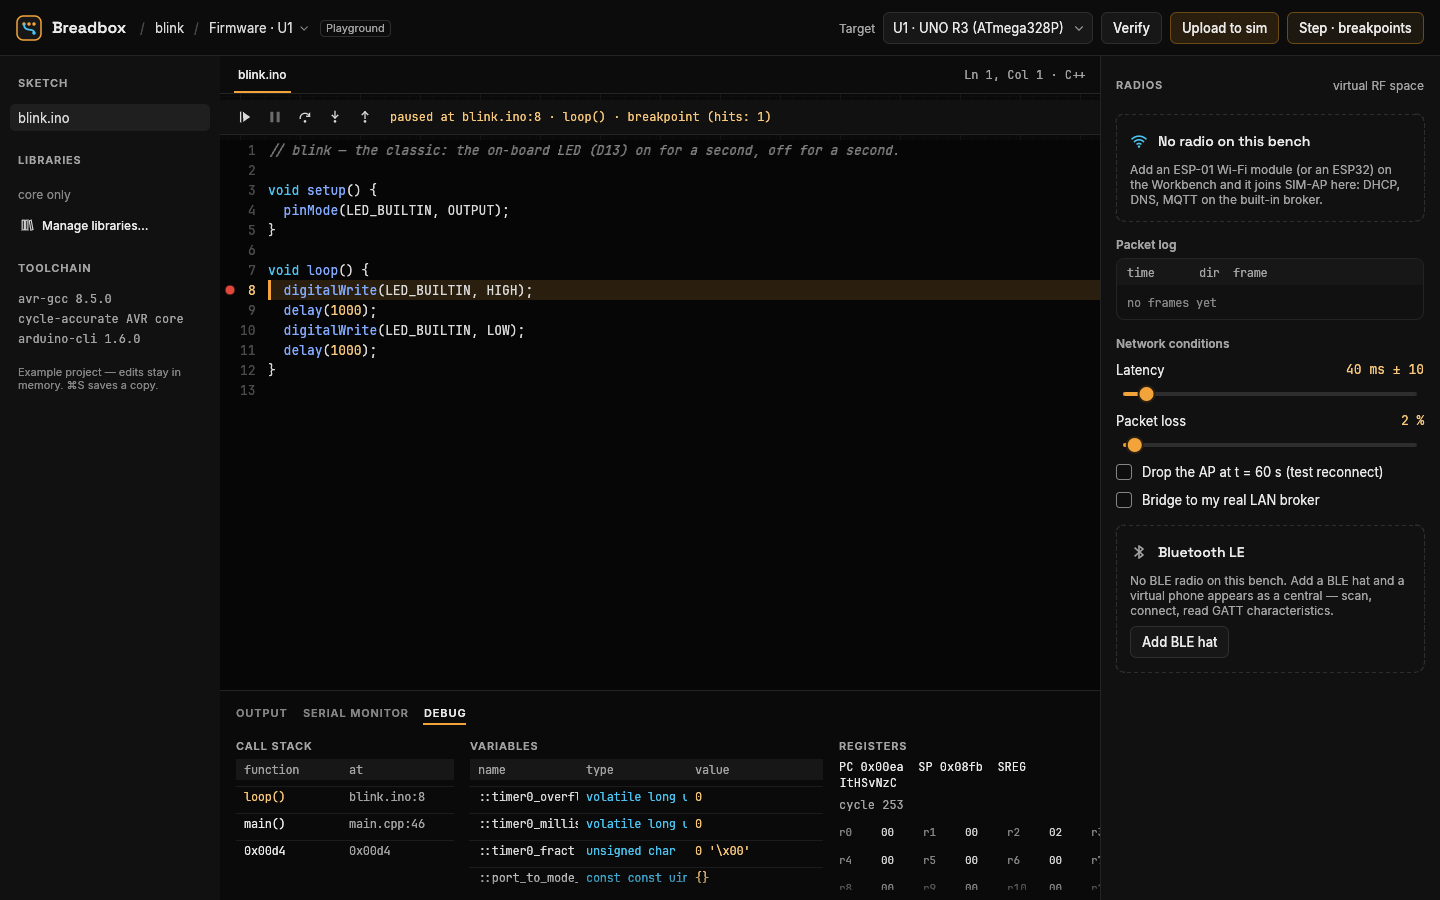
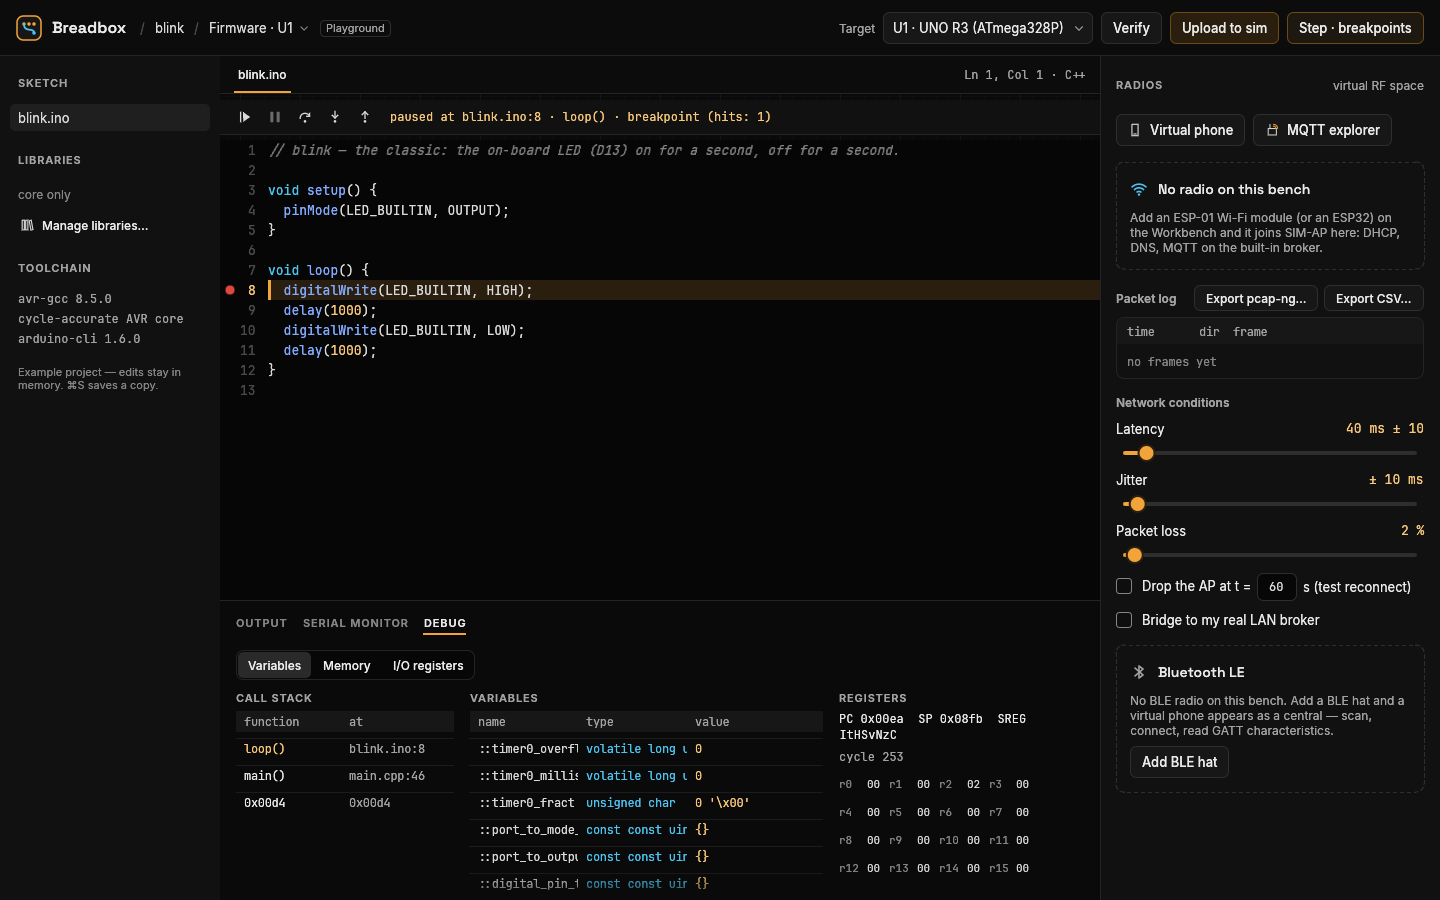
Firmware: Add BLE hat on a bench that already has a BLE module just runs it; Variables view register grid fits its column; refresh firmware-debug.png (taller Debug dock, view selector)

diff --git a/crates/breadbox/src/screens/firmware/mod.rs b/crates/breadbox/src/screens/firmware/mod.rs
@@ -1335,20 +1335,39 @@ fn add_ble_hat(app: &mut AppCtx) {
             .info("Open a project with a board first, then add the BLE hat.");
         return;
     };
-    match radio_panel::add_ble_hat(doc) {
-        Ok(r) => {
-            app.toasts.success(format!(
-                "Added {} · HM-10 BLE next to {} ({}) — the virtual phone sees HMSoft",
-                r.reference, r.board, r.wiring
+    // the bench is not running yet but the circuit already has a BLE module: just run it
+    let existing = doc
+        .project()
+        .parts
+        .iter()
+        .find(|p| p.part == "hm10" || p.part == "hc05")
+        .map(|p| p.reference.clone());
+    let added = match existing {
+        Some(r) => {
+            app.toasts.info(format!(
+                "{r} is already a BLE radio on this bench — running it so the virtual phone can scan"
             ));
-            if app.project.is_some() {
-                let link = app.bench_link();
-                if !link.is_running() {
-                    link.set_running(true);
-                }
-            }
+            true
         }
-        Err(e) => app.toasts.warn(e),
+        None => match radio_panel::add_ble_hat(doc) {
+            Ok(r) => {
+                app.toasts.success(format!(
+                    "Added {} · HM-10 BLE next to {} ({}) — the virtual phone sees HMSoft",
+                    r.reference, r.board, r.wiring
+                ));
+                true
+            }
+            Err(e) => {
+                app.toasts.warn(e);
+                false
+            }
+        },
+    };
+    if added && app.project.is_some() {
+        let link = app.bench_link();
+        if !link.is_running() {
+            link.set_running(true);
+        }
     }
 }
 

diff --git a/crates/breadbox/src/screens/firmware/debug_panel.rs b/crates/breadbox/src/screens/firmware/debug_panel.rs
@@ -930,7 +930,8 @@ pub fn debug_view(ui: &mut Ui, vm: Option<&DebugViewModel>) {
                             .color(p.text_muted),
                     );
                     egui::Grid::new("regs")
-                        .spacing(vec2(10.0, 2.0))
+                        .min_col_width(14.0)
+                        .spacing(vec2(8.0, 2.0))
                         .show(ui, |ui| {
                             for (i, v) in r.r.iter().enumerate() {
                                 ui.label(
